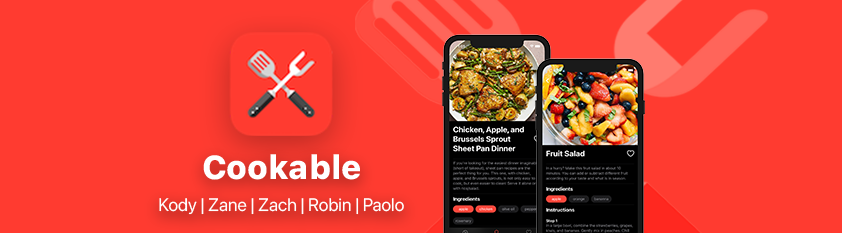
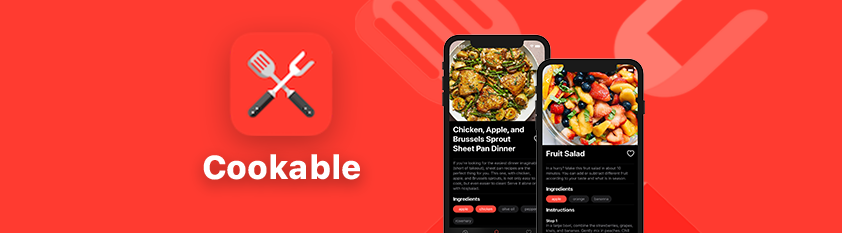
c

Changed region(s): [[0.1853, 0.8412, 0.4941, 0.9614]]

diff --git a/Cookable/Views/About/AboutTabView.swift b/Cookable/Views/About/AboutTabView.swift
@@ -15,17 +15,9 @@ struct AboutTabView: View {
         WithViewStore(store) { viewStore in
             NavigationView {
                 Form {
-                    Section(header: Text("UNCW Fall 2021")) {
-                        Text("CSC 450 - Software Engineering")
-                        Text("Dr Ralph Bradley")
-                    }
-                    Section(header: Text("Team Members")) {
+                    Section(header: Text("Author")) {
                         ForEach([
                             "Kody Deda",
-                            "Zane Bernard",
-                            "Zachary Mitzke",
-                            "Robin Wood",
-                            "Paolo Imperio"
                         ], id: \.self) {
                             Text($0)
                         }

diff --git a/Cookable/Views/OnboardingView.swift b/Cookable/Views/OnboardingView.swift
@@ -78,7 +78,7 @@ struct OnboardingView: View {
                 
                 Spacer()
                 
-                Text("Kody | Zane | Zach | Robin | Paolo")
+                Text("Kody Deda")
                     .multilineTextAlignment(.center)
                     .foregroundColor(.gray)
                     .padding(.bottom)

diff --git a/README.md b/README.md
@@ -6,14 +6,13 @@
 
 Cookable is an iOS app that helps you find recipes to cook, based on the ingredients you have at hand.
 
-
 ## 👏 Onboarding /  About
 
 * Apple-like onboarding screen
-* Introduces the app & authors
+* Simple introduction to the app
 
-![onboarding](https://user-images.githubusercontent.com/45678211/113738845-41b86e00-96cd-11eb-875b-123b2ae83d1f.png)
-![about](https://user-images.githubusercontent.com/45678211/113738847-41b86e00-96cd-11eb-9aa8-9d3ced13ad59.png)
+![onboarding](https://user-images.githubusercontent.com/45678211/119198024-b0bc0d00-ba56-11eb-84ae-d73ee8544e4e.png)
+![about](https://user-images.githubusercontent.com/45678211/119198019-aef24980-ba56-11eb-8643-e55111f3bef6.png)
 
 ## 🔍 Search
 
